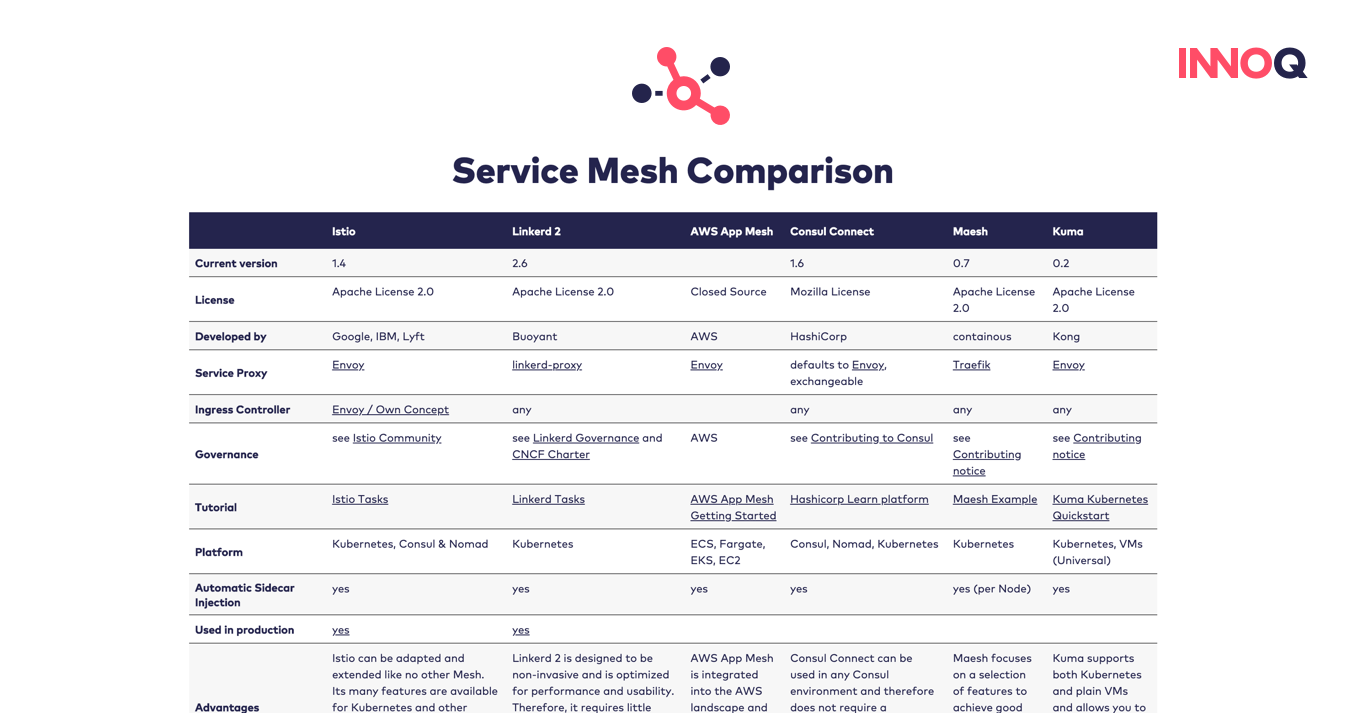
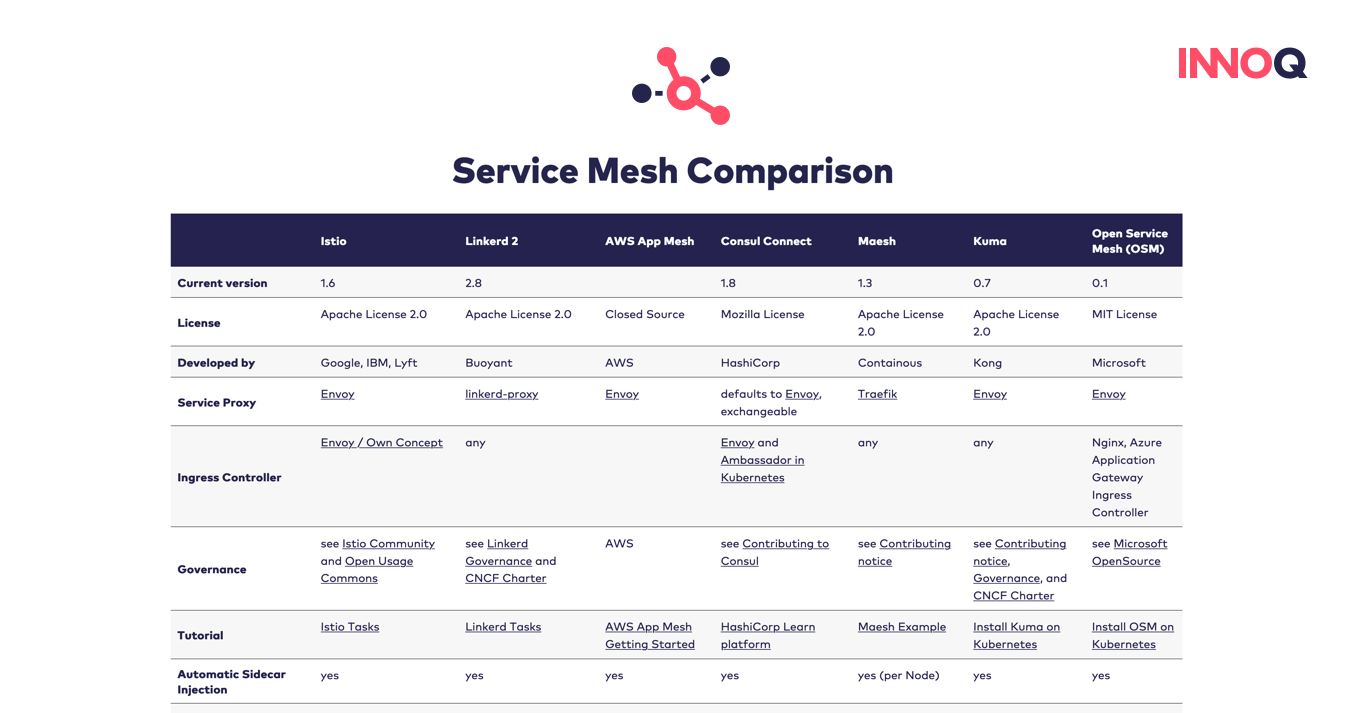
addined Open Service Mesh (OSM) ito ttable preview and metadata

Changed region(s): [[0.1233, 0.2777, 0.8943, 1.0], [0.37, 0.6788, 0.4317, 0.7097], [0.2467, 0.6788, 0.3084, 0.7097]]

diff --git a/_includes/head.html b/_includes/head.html
@@ -19,17 +19,17 @@
   <meta name="date" content="{{ site.time | date: '%Y-%m-%d' }}" scheme="YYYY-MM-DD">
 
   <meta name="title" content="servicemesh.es | Service Mesh Comparison">
-  <meta name="description" content="Service Mesh Feature Comparison — including Istio, Linkerd 2, AWS App Mesh, Consul Connect, Maesh, Kuma">
+  <meta name="description" content="Service Mesh Feature Comparison — including Istio, Linkerd 2, AWS App Mesh, Consul Connect, Maesh, Kuma, Open Service Mesh (OSM)">
 
   <meta name="twitter:card" content="summary_large_image" />
   <meta name="twitter:site" content="@INNOQ">
   <meta name="twitter:creator" content="@INNOQ">
   <meta name="twitter:title" content="{{ site.title }}">
-  <meta name="twitter:description" content="Service Mesh Feature Comparison — including Istio, Linkerd 2, AWS App Mesh, Consul Connect, Maesh, Kuma">
+  <meta name="twitter:description" content="Service Mesh Feature Comparison — including Istio, Linkerd 2, AWS App Mesh, Consul Connect, Maesh, Kuma, Open Service Mesh (OSM)">
   <meta name="twitter:image" content="https://servicemesh.es/img/table_preview.png?v=BGmQMWez4Q">
 
   <meta property="og:title" content="{{ site.title }}">
-  <meta property="og:description" content="Service Mesh Feature Comparison — including Istio, Linkerd 2, AWS App Mesh, Consul Connect, Maesh, Kuma">
+  <meta property="og:description" content="Service Mesh Feature Comparison — including Istio, Linkerd 2, AWS App Mesh, Consul Connect, Maesh, Kuma, Open Service Mesh (OSM)">
   <meta property="og:image" content="https://servicemesh.es/img/table_preview.png?v=BGmQMWez4Q">
   <meta property="og:url" content="https://servicemesh.es/">
 </head>
